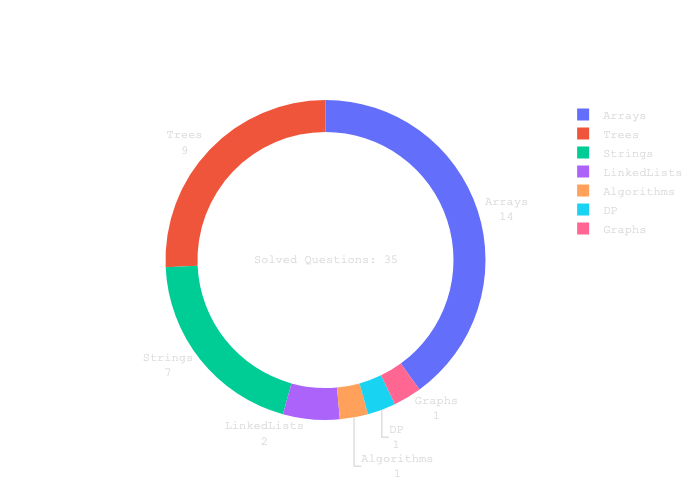
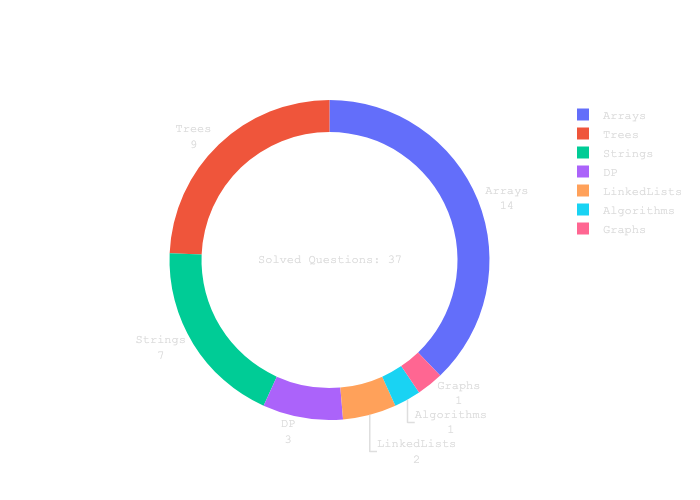
dp climbing stairs

diff --git a/DP/climbingStairs.py b/DP/climbingStairs.py
@@ -1,0 +1,12 @@
+def climbStairs(n: int) -> int:
+    if n <= 2:
+        return n
+    dp = [1, 2]
+    for i in range(2, n):
+        dp.append(dp[i - 1] + dp[i - 2])
+    return dp[-1]
+
+
+print(climbStairs(2))
+print(climbStairs(3))
+print(climbStairs(6))
